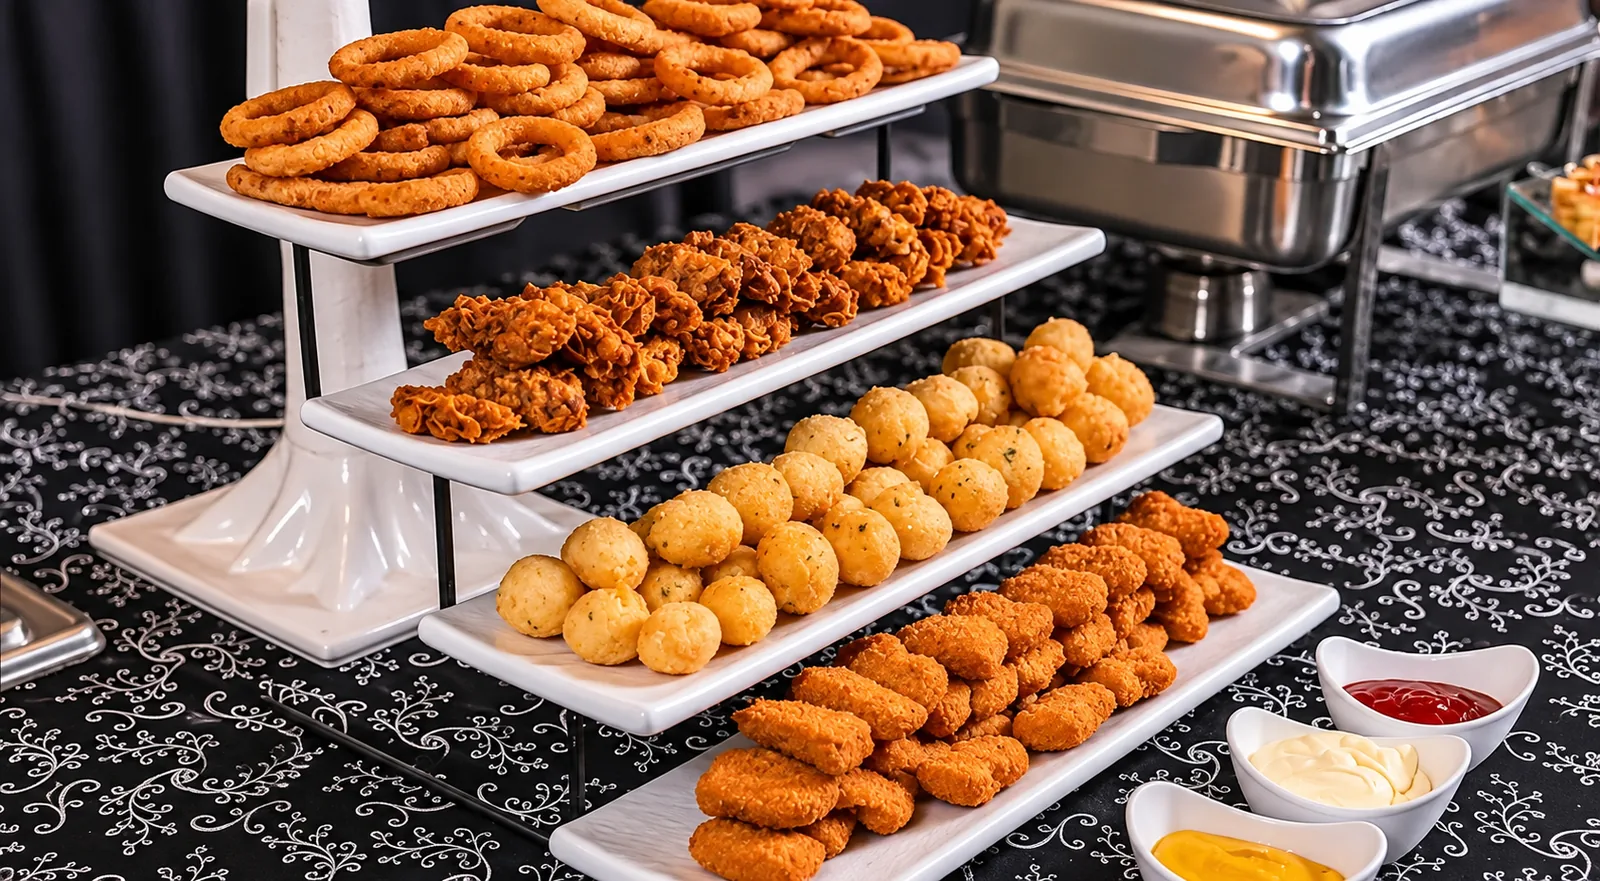
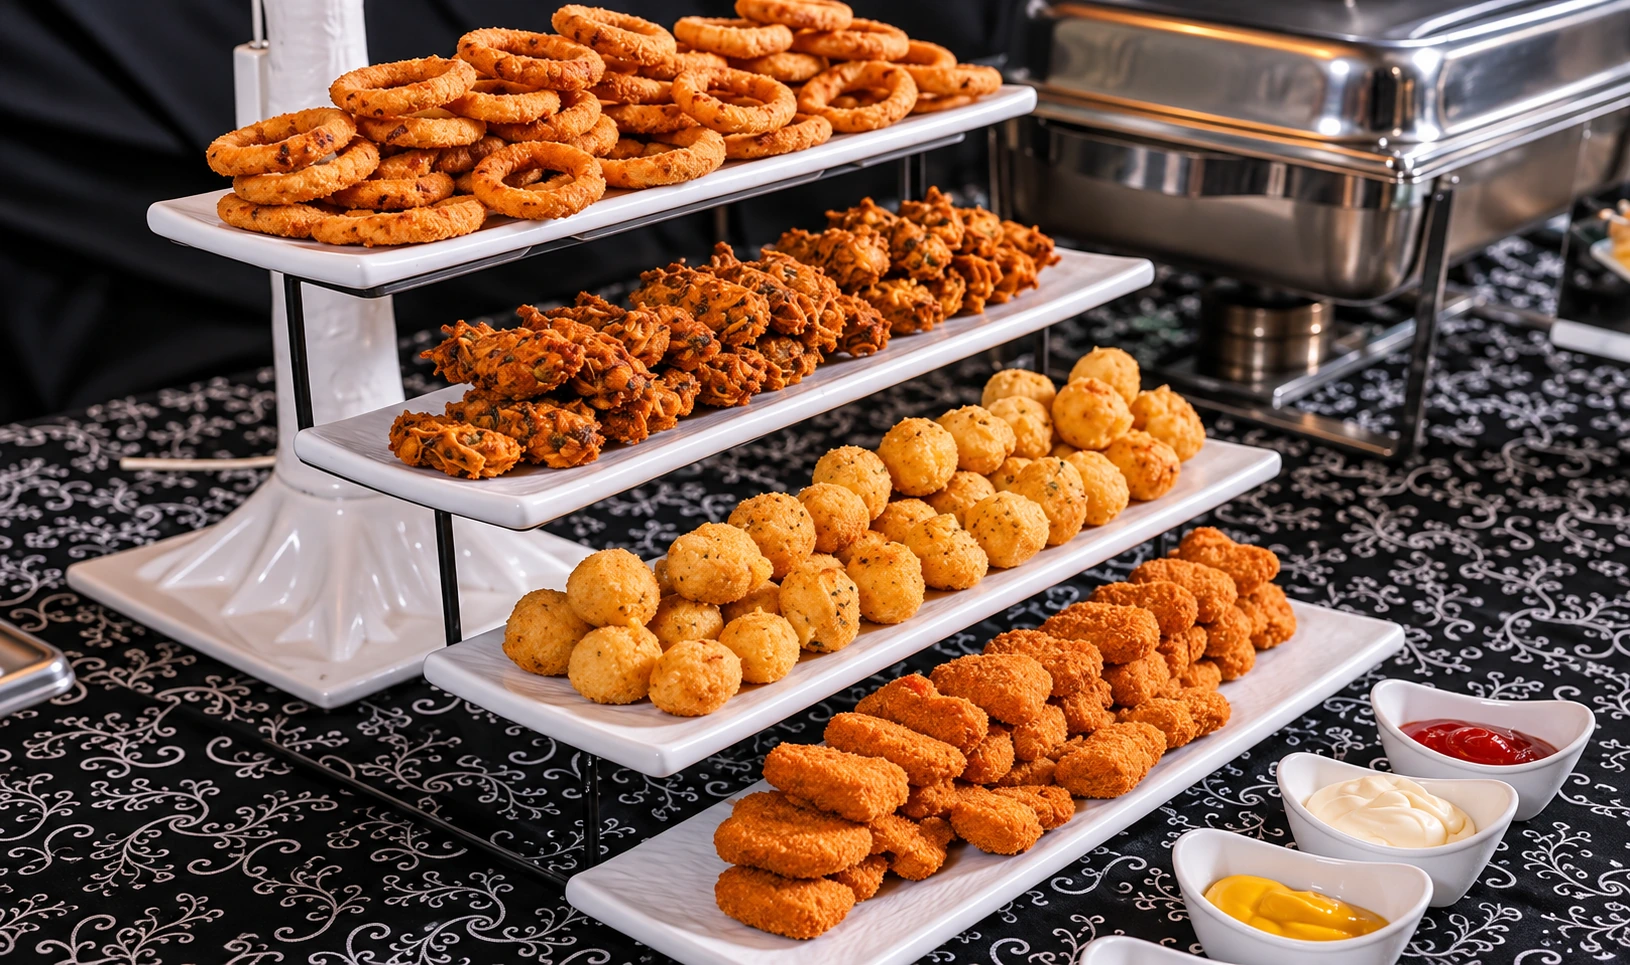
Actualizar tipografía, mapa y galería de fotos

diff --git a/Pagina/index.html b/Pagina/index.html
@@ -44,7 +44,7 @@
 
 <link rel="preconnect" href="https://fonts.googleapis.com">
 <link rel="preconnect" href="https://fonts.gstatic.com" crossorigin>
-<link href="https://fonts.googleapis.com/css2?family=Playfair+Display:ital,wght@0,400;0,500;0,600;1,400;1,500&family=Inter:wght@300;400;500;600;800&display=swap" rel="stylesheet">
+<link href="https://fonts.googleapis.com/css2?family=Inter:wght@400;500;600;700;800&family=Newsreader:ital,opsz,wght@0,6..72,400..600;1,6..72,400..600&display=swap" rel="stylesheet">
 
 <script>document.documentElement.classList.add('js');</script>
 
@@ -57,8 +57,8 @@
   --night:#0b0812;
   --panel:#100c19;
   --ink:#f3eee4;
-  --muted:#a49cae;
-  --dim:#948b9f;
+  --muted:#b0a8ba;
+  --dim:#a098ab;
   --gold:#d9b877;
   --gold-lit:#f2e2bd;
   --violet:#8f74e8;
@@ -66,7 +66,7 @@
   --line:rgba(217,184,119,.16);
   --line-soft:rgba(243,238,228,.09);
   --gutter:clamp(20px,4.6vw,72px);
-  --serif:'Playfair Display',Georgia,'Times New Roman',serif;
+  --serif:'Newsreader',Georgia,'Times New Roman',serif;
   --sans:'Inter','Helvetica Neue',Arial,sans-serif;
   --ease:cubic-bezier(.22,.61,.36,1);
   --ease-out:cubic-bezier(.16,1,.3,1);
@@ -81,9 +81,10 @@ body{
   background:var(--void);
   color:var(--ink);
   font-family:var(--sans);
-  font-weight:300;
+  font-weight:400;
   font-size:16px;
   line-height:1.7;
+  font-optical-sizing:auto;
   overflow-x:clip;
   -webkit-font-smoothing:antialiased;
   text-rendering:optimizeLegibility;
@@ -127,14 +128,14 @@ ul,ol{list-style:none}
 .eyebrow--center{justify-content:center}
 .eyebrow--center::after{content:"";width:34px;height:1px;background:currentColor;opacity:.7;flex:none}
 
-h1,h2,h3,h4{font-family:var(--serif);font-weight:400;line-height:1.02;letter-spacing:-.015em}
+h1,h2,h3,h4{font-family:var(--serif);font-weight:500;line-height:1.06;letter-spacing:-.01em}
 h2{font-size:clamp(34px,5.2vw,70px)}
 h3{font-size:clamp(26px,2.6vw,36px);line-height:1.12;letter-spacing:-.01em}
 h2 em,h1 em,h3 em{font-style:italic;color:var(--gold-lit)}
 
 .lead{
   color:var(--muted);font-size:clamp(16px,1.15vw,18.5px);line-height:1.75;
-  max-width:56ch;font-weight:300;
+  max-width:56ch;font-weight:400;text-wrap:pretty;
 }
 .section{padding-block:clamp(84px,12vh,168px);position:relative}
 .section-head{
@@ -296,7 +297,7 @@ body.menu-open .menu a{opacity:1;transform:none;transition-delay:calc(var(--i,0)
 
 .hero p.sub{
   color:#d5cfe0;font-size:clamp(15.5px,1.4vw,19px);line-height:1.7;
-  max-width:44ch;font-weight:300;
+  max-width:44ch;font-weight:400;
   opacity:0;animation:fadeUp .9s var(--ease) .62s forwards;
 }
 .hero-actions{display:flex;flex-wrap:wrap;gap:12px;opacity:0;animation:fadeUp .9s var(--ease) .74s forwards}
@@ -376,17 +377,16 @@ body.menu-open .menu a{opacity:1;transform:none;transition-delay:calc(var(--i,0)
 }
 .manifesto-note b{color:var(--gold);font-weight:500;flex:none;font-size:15px;line-height:1.4}
 .manifesto-media{position:relative}
-.manifesto-media .ph{border:1px solid var(--line-soft)}
 .manifesto-media figcaption{
-  margin-top:14px;font-size:11px;letter-spacing:.2em;text-transform:uppercase;color:var(--dim);
-  display:flex;justify-content:space-between;gap:16px;
+  margin-top:14px;font-size:11px;letter-spacing:.16em;line-height:1.5;text-transform:uppercase;color:var(--dim);
+  display:flex;justify-content:space-between;flex-wrap:wrap;gap:4px 16px;
 }
 .manifesto-media figcaption i{font-style:normal;color:var(--gold)}
 
-.ph{position:relative;overflow:hidden;background:var(--panel)}
-.ph img{width:100%;height:100%;object-fit:cover;transform:scale(1.12);will-change:transform}
-.ph--tall{aspect-ratio:4/5}
-.ph--wide{aspect-ratio:16/9}
+.ph{position:relative;overflow:hidden;background:var(--panel);border:1px solid var(--line-soft);border-radius:12px}
+.ph img{width:100%;height:100%;object-fit:cover;object-position:50% 50%;transform:scale(1.06);will-change:transform}
+.ph--feature{aspect-ratio:4/3}
+.ph--wide{aspect-ratio:3/2}
 .ph--pano{aspect-ratio:21/9}
 
 /* ============================================================
@@ -399,7 +399,7 @@ body.menu-open .menu a{opacity:1;transform:none;transition-delay:calc(var(--i,0)
   gap:clamp(24px,4vw,60px);align-items:center;
 }
 .m-media{grid-column:1;grid-row:1}
-.m-media .ph{aspect-ratio:4/3}
+.m-media .ph{aspect-ratio:3/2}
 .m-body{grid-column:2;grid-row:1;display:flex;flex-direction:column;gap:18px}
 .m-list{counter-reset:m}
 .moment{counter-increment:m}
@@ -464,8 +464,11 @@ body.menu-open .menu a{opacity:1;transform:none;transition-delay:calc(var(--i,0)
 .hstick::-webkit-scrollbar{display:none}
 .hstick.is-dragging{scroll-snap-type:none;scroll-behavior:auto;cursor:grabbing;user-select:none;-webkit-user-select:none}
 .htrack{position:relative;display:flex;width:max-content;gap:clamp(14px,2vw,26px);padding-inline:var(--gutter)}
-.hitem{flex:none;scroll-snap-align:start;width:clamp(180px,min(30vw,calc(75svh - 90px)),420px);position:relative;overflow:hidden}
-.hitem img{width:100%;height:100%;object-fit:cover;aspect-ratio:3/4;transition:transform .9s var(--ease);pointer-events:none}
+.hitem{
+  flex:none;scroll-snap-align:start;width:clamp(280px,42vw,600px);aspect-ratio:4/3;
+  position:relative;overflow:hidden;background:var(--panel);border:1px solid var(--line-soft);border-radius:12px;
+}
+.hitem img{width:100%;height:100%;object-fit:cover;object-position:50% 50%;transition:transform .9s var(--ease);pointer-events:none}
 .hitem:hover img{transform:scale(1.045)}
 .hitem figcaption{
   position:absolute;inset:auto 0 0 0;padding:40px 20px 16px;
@@ -522,16 +525,16 @@ body.menu-open .menu a{opacity:1;transform:none;transition-delay:calc(var(--i,0)
 }
 .q:hover{background:var(--night)}
 .q blockquote{
-  font-family:var(--serif);font-size:clamp(17px,1.45vw,22px);line-height:1.55;color:#e6e0ec;
-  font-style:italic;
+  font-family:var(--sans);font-size:clamp(18px,1.35vw,20px);line-height:1.8;color:var(--ink);
+  font-style:normal;font-weight:400;letter-spacing:0;max-width:56ch;text-wrap:pretty;
 }
-.q figcaption{display:flex;align-items:center;gap:12px;font-size:12px;color:var(--dim);letter-spacing:.06em}
+.q figcaption{display:flex;align-items:center;gap:12px;font-size:13.5px;color:var(--muted);font-weight:500;letter-spacing:.02em;line-height:1.6}
 .q figcaption::before{content:"";width:22px;height:1px;background:var(--gold);opacity:.7}
 .stars{display:flex;gap:3px;color:var(--gold);font-size:12px}
 .stars i{font-style:normal;opacity:0;transform:scale(.5);display:inline-block}
 .stars.in i{opacity:1;transform:none;transition:opacity .5s var(--ease),transform .6s var(--ease);transition-delay:calc(var(--s,0) * 90ms)}
 .reviews-foot{display:flex;align-items:center;justify-content:space-between;gap:24px;flex-wrap:wrap;margin-top:clamp(32px,5vh,52px)}
-.reviews-note{font-size:12.5px;color:var(--dim);max-width:40ch}
+.reviews-note{font-size:15px;color:var(--muted);line-height:1.7;max-width:44ch;text-wrap:pretty}
 .link-arrow{
   display:inline-flex;align-items:center;gap:10px;font-size:13px;color:var(--gold-lit);
   border-bottom:1px solid var(--line);padding-bottom:6px;transition:gap .4s var(--ease),border-color .4s var(--ease);
@@ -574,7 +577,7 @@ body.menu-open .menu a{opacity:1;transform:none;transition-delay:calc(var(--i,0)
 .field--full{grid-column:1/-1}
 .field label{font-size:11px;letter-spacing:.13em;text-transform:uppercase;color:var(--muted)}
 .field input,.field select,.field textarea{
-  width:100%;font:inherit;font-size:16px;font-weight:300;color:var(--ink);
+  width:100%;font:inherit;font-size:16px;font-weight:400;color:var(--ink);
   background:rgba(7,5,12,.55);border:1px solid rgba(243,238,228,.13);border-radius:10px;
   padding:13px 14px;color-scheme:dark;
   transition:border-color .3s var(--ease),box-shadow .3s var(--ease),background .3s var(--ease);
@@ -624,10 +627,12 @@ body.menu-open .menu a{opacity:1;transform:none;transition-delay:calc(var(--i,0)
 .loc-list small{font-size:10px;letter-spacing:.24em;text-transform:uppercase;color:var(--dim)}
 .loc-list strong{font-family:var(--serif);font-size:clamp(17px,1.5vw,21px);font-weight:400;color:var(--ink)}
 .loc-list a:hover strong{color:var(--gold-lit)}
+.map-wrap{min-width:0}
 .map{
-  position:relative;height:clamp(340px,40vw,520px);border:1px solid var(--line-soft);overflow:hidden;background:var(--panel);
+  position:relative;height:clamp(340px,40vw,520px);border:1px solid var(--line);border-radius:12px;
+  overflow:hidden;isolation:isolate;background:var(--panel);box-shadow:0 20px 60px rgba(0,0,0,.18);
 }
-.map iframe{width:100%;height:100%;border:0;display:block;filter:grayscale(.35) contrast(1.05) brightness(.85)}
+.map iframe{width:100%;height:100%;border:0;display:block;filter:grayscale(.25) contrast(1.03) brightness(.9)}
 .map-link{margin-top:16px}
 
 /* ============================================================
@@ -691,15 +696,14 @@ body.menu-open .menu a{opacity:1;transform:none;transition-delay:calc(var(--i,0)
   .moment{grid-template-columns:1fr;gap:22px}
   .m-media,.moment:nth-child(even) .m-media{grid-column:1;grid-row:1}
   .m-body,.moment:nth-child(even) .m-body{grid-column:1;grid-row:2}
-  .m-media .ph{aspect-ratio:16/10}
+  .m-media .ph{aspect-ratio:3/2}
 }
 
 @media (max-width:860px){
   .nav-links,.nav-cta{display:none}
   .burger{display:block}
   .hstick{padding-block:8px 4px}
-  .hitem{width:min(72vw,320px)}
-  .hitem img{aspect-ratio:4/5}
+  .hitem{width:min(82vw,420px)}
   .hitem figcaption{opacity:1;transform:none}
   .hcontrols{margin-top:18px}
   .quotes{grid-template-columns:1fr}
@@ -724,7 +728,8 @@ body.menu-open .menu a{opacity:1;transform:none;transition-delay:calc(var(--i,0)
   .specs>div{grid-template-columns:1fr;gap:6px}
   .courses li{grid-template-columns:32px 1fr;gap:14px}
   .courses .c-tag{display:none}
-  .q{padding:26px 22px}
+  .q{padding:28px 22px}
+  .map{height:clamp(320px,90vw,420px)}
   .moment{grid-template-columns:1fr}
   .m-media,.m-body,.moment:nth-child(even) .m-media,.moment:nth-child(even) .m-body{grid-column:1}
   .m-media{grid-row:1}.m-body{grid-row:2}
@@ -1105,9 +1110,9 @@ html:not(.js) .hstick::-webkit-scrollbar{display:block}
     </div>
 
     <figure class="manifesto-media" data-reveal="mask">
-      <div class="ph ph--tall">
-        <img src="salon3.webp" alt="Mesa principal con letras luminosas y sillas Royal Cristal"
-             width="1545" height="1018" loading="lazy" decoding="async" data-parallax=".05">
+      <div class="ph ph--feature">
+        <img src="salon6.webp" alt="Salón con mesas vestidas, letras luminosas e iluminación violeta"
+             width="1531" height="1027" loading="lazy" decoding="async" data-parallax=".05">
       </div>
       <figcaption><span>Mesa principal</span><i>Ambientación completa</i></figcaption>
     </figure>
@@ -1135,8 +1140,8 @@ html:not(.js) .hstick::-webkit-scrollbar{display:block}
         <div class="m-rail" aria-hidden="true"><span class="m-num">01</span></div>
         <div class="m-media">
           <figure class="ph" data-reveal="mask">
-            <img src="picada.webp" alt="Picada de recepción servida antes de la cena"
-                 width="1600" height="941" loading="lazy" decoding="async" data-parallax=".05">
+            <img src="picada6.webp" alt="Recepción con fiambres, quesos y bocados servidos antes de la cena"
+                 width="1632" height="964" loading="lazy" decoding="async" data-parallax=".05">
           </figure>
         </div>
         <div class="m-body">
@@ -1326,8 +1331,20 @@ html:not(.js) .hstick::-webkit-scrollbar{display:block}
           <figcaption>Mesa principal</figcaption>
         </figure>
         <figure class="hitem">
-          <img src="picada4.webp" alt="Bocados de recepción servidos en bandejas" width="1600" height="881" loading="lazy" decoding="async">
+          <img src="salon5.webp" alt="Mesa principal con letras luminosas y ambientación floral" width="1539" height="1022" loading="lazy" decoding="async">
+          <figcaption>Ambientación</figcaption>
+        </figure>
+        <figure class="hitem">
+          <img src="picada4.webp" alt="Bocados de recepción servidos en bandejas" width="1630" height="965" loading="lazy" decoding="async">
           <figcaption>Recepción</figcaption>
+        </figure>
+        <figure class="hitem">
+          <img src="picada7.webp" alt="Mesa de recepción con bocados, fiambres y candelabros de cristal" width="1533" height="1026" loading="lazy" decoding="async">
+          <figcaption>Mesa de recepción</figcaption>
+        </figure>
+        <figure class="hitem">
+          <img src="mesafruta.webp" alt="Mesa de frutas frescas, galletas y chocolate" width="1541" height="1020" loading="lazy" decoding="async">
+          <figcaption>Mesa de frutas</figcaption>
         </figure>
         <figure class="hitem">
           <img src="mesadulce.webp" alt="Postre artesanal servido en la mesa dulce" width="1539" height="1022" loading="lazy" decoding="async">
@@ -1375,8 +1392,8 @@ html:not(.js) .hstick::-webkit-scrollbar{display:block}
       </dl>
 
       <figure class="ph ph--wide" data-reveal="mask">
-        <img src="salon1.webp" alt="Vista amplia del salón de fiestas con mesas y luces"
-             width="1535" height="1025" loading="lazy" decoding="async" data-parallax=".07">
+        <img src="salon4.webp" alt="Salón de fiestas con mesas vestidas, letras luminosas y esferas de espejos"
+             width="1537" height="1023" loading="lazy" decoding="async" data-parallax=".07">
       </figure>
     </div>
   </div>
@@ -1424,7 +1441,7 @@ html:not(.js) .hstick::-webkit-scrollbar{display:block}
 
     <div class="reviews-foot">
       <p class="reviews-note">Las reseñas se publican en Google Maps y se actualizan desde la ficha del salón.</p>
-      <a class="link-arrow" href="https://www.google.com/maps/place/Cands+Eventos+%5BSal%C3%B3n+de+Fiestas%5D/@-34.655907,-58.699949,16z/data=!4m6!3m5!1s0x95bcbf9c3709fcad:0xe8053f97f3f141b1!8m2!3d-34.653281!4d-58.6951358!16s%2Fg%2F11cmmzvxqy?entry=ttu" target="_blank" rel="noopener">
+      <a class="link-arrow" href="https://www.google.com/maps/place/Cands+Eventos+%5BSal%C3%B3n+de+Fiestas%5D/@-34.653281,-58.6951358,17z/data=!4m6!3m5!1s0x95bcbf9c3709fcad:0xe8053f97f3f141b1!8m2!3d-34.653281!4d-58.6951358!16s%2Fg%2F11cmmzvxqy/data=!4m6!3m5!1s0x95bcbf9c3709fcad:0xe8053f97f3f141b1!8m2!3d-34.653281!4d-58.6951358!16s%2Fg%2F11cmmzvxqy?entry=ttu" target="_blank" rel="noopener">
         Ver todas en Google Maps
         <svg viewBox="0 0 24 24" fill="none" stroke="currentColor" stroke-width="1.8" aria-hidden="true"><path d="M7 17 17 7M9 7h8v8"/></svg>
       </a>
@@ -1558,7 +1575,7 @@ html:not(.js) .hstick::-webkit-scrollbar{display:block}
           <a href="https://www.instagram.com/candseventos" target="_blank" rel="noopener" data-reveal="up" style="--d:120ms">
             <small>Instagram</small><strong>@candseventos</strong>
           </a>
-          <a href="https://www.google.com/maps/place/Cands+Eventos+%5BSal%C3%B3n+de+Fiestas%5D/@-34.655907,-58.699949,16z" target="_blank" rel="noopener" data-reveal="up" style="--d:180ms">
+          <a href="https://www.google.com/maps/place/Cands+Eventos+%5BSal%C3%B3n+de+Fiestas%5D/@-34.653281,-58.6951358,17z/data=!4m6!3m5!1s0x95bcbf9c3709fcad:0xe8053f97f3f141b1!8m2!3d-34.653281!4d-58.6951358!16s%2Fg%2F11cmmzvxqy" target="_blank" rel="noopener" data-reveal="up" style="--d:180ms">
             <small>Cómo llegar</small><strong>Turquía 2689, B1714</strong>
           </a>
         </div>
@@ -1567,12 +1584,12 @@ html:not(.js) .hstick::-webkit-scrollbar{display:block}
       <div class="map-wrap">
         <div class="map" data-reveal="mask">
           <iframe
-            title="Mapa con la ubicación de Cand's Eventos en Turquía 2689, Ituzaingó"
-            src="https://www.google.com/maps?q=Turqu%C3%ADa%202689,%20Ituzaing%C3%B3,%20Buenos%20Aires&output=embed"
+            title="Mapa de Cand's Eventos en Turquía 2689, Ituzaingó"
+            src="https://www.google.com/maps/embed?pb=!1m18!1m12!1m3!1d3282.2!2d-58.6951358!3d-34.653281!2m3!1f0!2f0!3f0!3m2!1i1024!2i768!4f13.1!3m3!1m2!1s0x95bcbf9c3709fcad%3A0xe8053f97f3f141b1!2sCand%27s%20Eventos%20%5BSal%C3%B3n%20de%20Fiestas%5D!5e0!3m2!1ses-419!2sar!4v1795651200000!5m2!1ses-419!2sar"
             loading="lazy" referrerpolicy="no-referrer-when-downgrade" allowfullscreen></iframe>
         </div>
         <a class="link-arrow map-link"
-           href="https://www.google.com/maps/place/Cands+Eventos+%5BSal%C3%B3n+de+Fiestas%5D/@-34.655907,-58.699949,16z"
+           href="https://www.google.com/maps/place/Cands+Eventos+%5BSal%C3%B3n+de+Fiestas%5D/@-34.653281,-58.6951358,17z/data=!4m6!3m5!1s0x95bcbf9c3709fcad:0xe8053f97f3f141b1!8m2!3d-34.653281!4d-58.6951358!16s%2Fg%2F11cmmzvxqy"
            target="_blank" rel="noopener">
           Abrir en Google Maps
           <svg viewBox="0 0 24 24" fill="none" stroke="currentColor" stroke-width="1.8" aria-hidden="true"><path d="M7 17 17 7M9 7h8v8"/></svg>
@@ -1825,7 +1842,7 @@ html:not(.js) .hstick::-webkit-scrollbar{display:block}
         if (r.bottom < -240 || r.top > vh + 240) continue;
         var progress = (r.top + r.height / 2 - vh / 2) / vh;   /* -1 … 1 aprox */
         var y = -progress * o.speed * 100;
-        var scale = o.el.classList.contains('ball-wrap') ? 1 : 1.12;
+        var scale = o.el.classList.contains('ball-wrap') ? 1 : (o.el === heroImg ? 1.12 : 1.06);
         o.el.style.transform = 'translate3d(0,' + y.toFixed(2) + 'px,0)' + (scale !== 1 ? ' scale(' + scale + ')' : '');
       }
 
